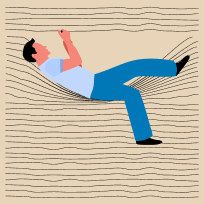
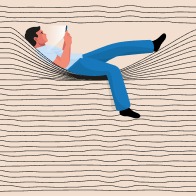
update image and bg colour for the long read

diff --git a/atoms/default/server/templates/main.html b/atoms/default/server/templates/main.html
@@ -77,7 +77,7 @@
                             class="iframed--overflow-hidden email-sub__iframe js-email-sub__iframe js-email-sub__iframe--article" 
                             data-form-success-desc="We&#x27;ll send you First Edition every weekday" 
                             title="Sign up for First Edition"></iframe>    </div>
-                    </article><article class="newsletter-card" style="background-color:#e7d5b9; color:#000">
+                    </article><article class="newsletter-card" style="background-color:#F2DFD0; color:#000">
                         <h2 class="newsletter-card__title">The Long Read</h2>
                     
                         <div class="newsletter-card__inner">

diff --git a/atoms/set-7/server/templates/main.html b/atoms/set-7/server/templates/main.html
@@ -77,7 +77,7 @@
                             class="iframed--overflow-hidden email-sub__iframe js-email-sub__iframe js-email-sub__iframe--article" 
                             data-form-success-desc="We&#x27;ll send you First Edition every weekday" 
                             title="Sign up for First Edition"></iframe>    </div>
-                    </article><article class="newsletter-card" style="background-color:#e7d5b9; color:#000">
+                    </article><article class="newsletter-card" style="background-color:#F2DFD0; color:#000">
                         <h2 class="newsletter-card__title">The Long Read</h2>
                     
                         <div class="newsletter-card__inner">

diff --git a/atoms/set-4/server/templates/main.html b/atoms/set-4/server/templates/main.html
@@ -77,7 +77,7 @@
                             class="iframed--overflow-hidden email-sub__iframe js-email-sub__iframe js-email-sub__iframe--article" 
                             data-form-success-desc="We&#x27;ll send you Hear Here every week" 
                             title="Sign up for Hear Here"></iframe>    </div>
-                    </article><article class="newsletter-card" style="background-color:#e7d5b9; color:#000">
+                    </article><article class="newsletter-card" style="background-color:#F2DFD0; color:#000">
                         <h2 class="newsletter-card__title">The Long Read</h2>
                     
                         <div class="newsletter-card__inner">
